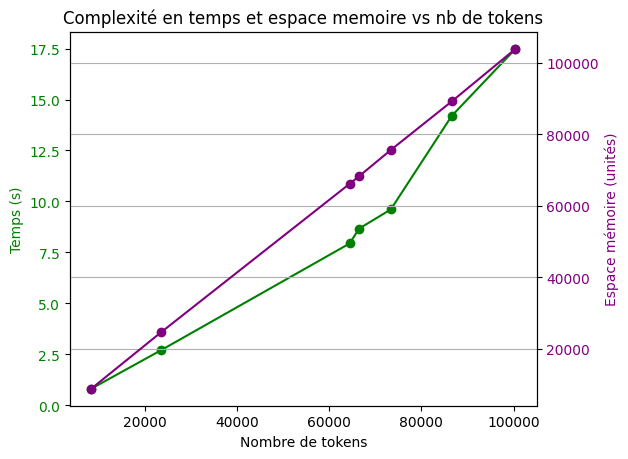
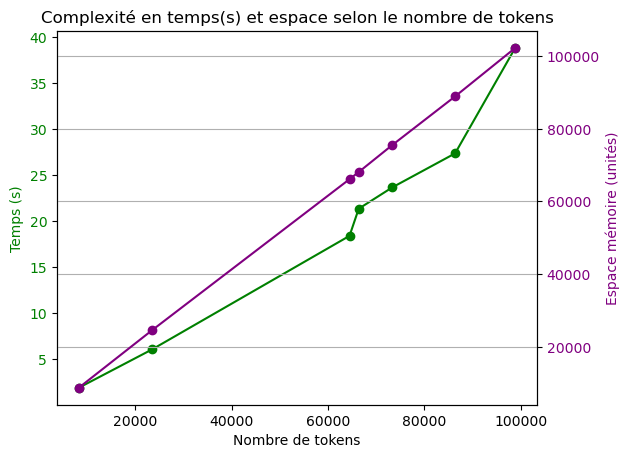
update du plot

diff --git a/Groupe3/groupe3.py b/Groupe3/groupe3.py
@@ -9,7 +9,7 @@ Il y a deux manières de résoudre ce problème:
 Le formatage des résultats a été discuté avec et approuvé par le groupe 5.
 
 Le fichier peut-être appelé de cette manière dans le terminal
-	$ python groupe3.py [chemin vers le dossier du corpus]
+	$ python groupe3.py [chemin/vers/dossier_corpus/]
 """
 
 import sys
@@ -22,7 +22,6 @@ nlp = spacy.load("fr_core_news_sm")
 import json
 from glob import glob
 import matplotlib.pyplot as plt
-
 
 
 def preprocess_file(inputFile: str, cpt_temps: int, cpt_espace: int) -> tuple:
@@ -147,7 +146,7 @@ def get_complexities(chemin: str) -> list:
 		start_time = time.time() # début du calcul du temps d'exécution
 		(dicos, temps, espace), nb_tokens = preprocess_file(file, cpt_temps=1, cpt_espace=0) # on commence ce compteur temps à 1 car la fonction est appelée
 		end_time = time.time() # fin du calcul du temps d'exécution
-		
+
 		complexities[0].append(nb_tokens)
 		complexities[1].append(round(end_time - start_time, 3))
 		complexities[2].append(espace)
@@ -191,8 +190,9 @@ def make_plot(liste_res:list):
 	sorted_on_ntokens = sorted(combined, key=lambda x: x[0])
 	nb_toks, temps, espace, appels = zip(*sorted_on_ntokens)
 
-	# Création de la figure et de l'axe principal
-	fig, ax1= plt.subplots()
+	# Création de la première figure et de l'axe principal
+	# espace x temps (avec module time)
+	fig, ax1 = plt.subplots()
 	
 	# Axe des x et premier axe y (temps)
 	ax1.set_xlabel('Nombre de tokens')
@@ -203,42 +203,52 @@ def make_plot(liste_res:list):
 	#Création d'un second axe y (espace)
 	ax2 = ax1.twinx()
 	ax2.set_ylabel('Espace mémoire (unités)', color='purple')
-	ax2.plot(nb_toks,espace, color='purple', marker='o', linestyle='-', label='Espace mémoire (unités)')
+	ax2.plot(nb_toks, espace, color='purple', marker='o', linestyle='-', label='Espace mémoire (unités)')
 	ax2.tick_params(axis='y', labelcolor='purple')
+ 
 	# Titre et légendes
 	fig.tight_layout() # Ajuste la mise en page pour éviter les chevauchements
-	plt.title('Complexité en temps et espace memoire vs nb de tokens')
+	plt.title('Complexité en temps(s) et espace selon le nombre de tokens')
+
 	# Affichage
 	plt.grid()
 	plt.subplots_adjust(top=0.9)  # Ajuster pour donner plus d'espace au titre
 	plt.savefig("plot_temps_espace.png", bbox_inches='tight')
 	plt.show()
+
+	# Création de la figure et de l'axe principal
+ 	# espace x temps (en calculant le nombre d'appels pendant l'execution)
+	fig, ax1 = plt.subplots()
 	
-	# Deuxième plot : Appels vs Nombre de tokens
-	fig, ax = plt.subplots()
-	ax.set_xlabel('Nombre de tokens')
-	ax.set_ylabel('Nbre appels fonctions', color='blue')
-	ax.plot(nb_toks, appels, color='blue', marker='o', label='Appels de fonction vs nbre de tokens')
-	ax.tick_params(axis='y', labelcolor='blue')
+	# Axe des x et premier axe y (temps)
+	ax1.set_xlabel('Nombre de tokens')
+	ax1.set_ylabel('Nbre appels fonctions', color='blue')
+	ax1.plot(nb_toks, appels, color='blue', marker='o', label='Nbre appels fonctions')
+	ax1.tick_params(axis='y', labelcolor='blue')
+
+	#Création d'un second axe y (espace)
+	ax2 = ax1.twinx()
+	ax2.set_ylabel('Espace mémoire (unités)', color='purple')
+	ax2.plot(nb_toks, espace, color='purple', marker='o', linestyle='-', label='Espace mémoire (unités)')
+	ax2.tick_params(axis='y', labelcolor='purple')
 
 	# Titre et légendes
 	fig.tight_layout() # Ajuste la mise en page évite les chevauchements
-	plt.title('Complexité en nb appels de fonction vs nb de tokens')
+	plt.title('Complexité en temps(appels) et espace selon le nombre de tokens')
 	# Affichage
 	plt.grid()
 	plt.subplots_adjust(top=0.9)
-	plt.savefig("plot_appels.png", bbox_inches='tight')
+	plt.savefig("plot_appels_espace.png", bbox_inches='tight')
 	plt.show()
-	
-	
+
 
 if __name__ == "__main__":
 
-	# complex = get_complexities(sys.argv[1])
+	# on obtient les compteurs et on les affiche dans deux graphiques
+	complex = get_complexities(sys.argv[1])
+	make_plot(complex)
 	
 	LE_dico = get_annotations(sys.argv[1])
 	# enregistre dans un fichier json nos annotations
 	with open('annotations_EN.json', 'w', encoding='utf-8') as file:
 		json.dump(LE_dico, file, ensure_ascii=False, indent=4)
-	
-	make_plot(complex)
